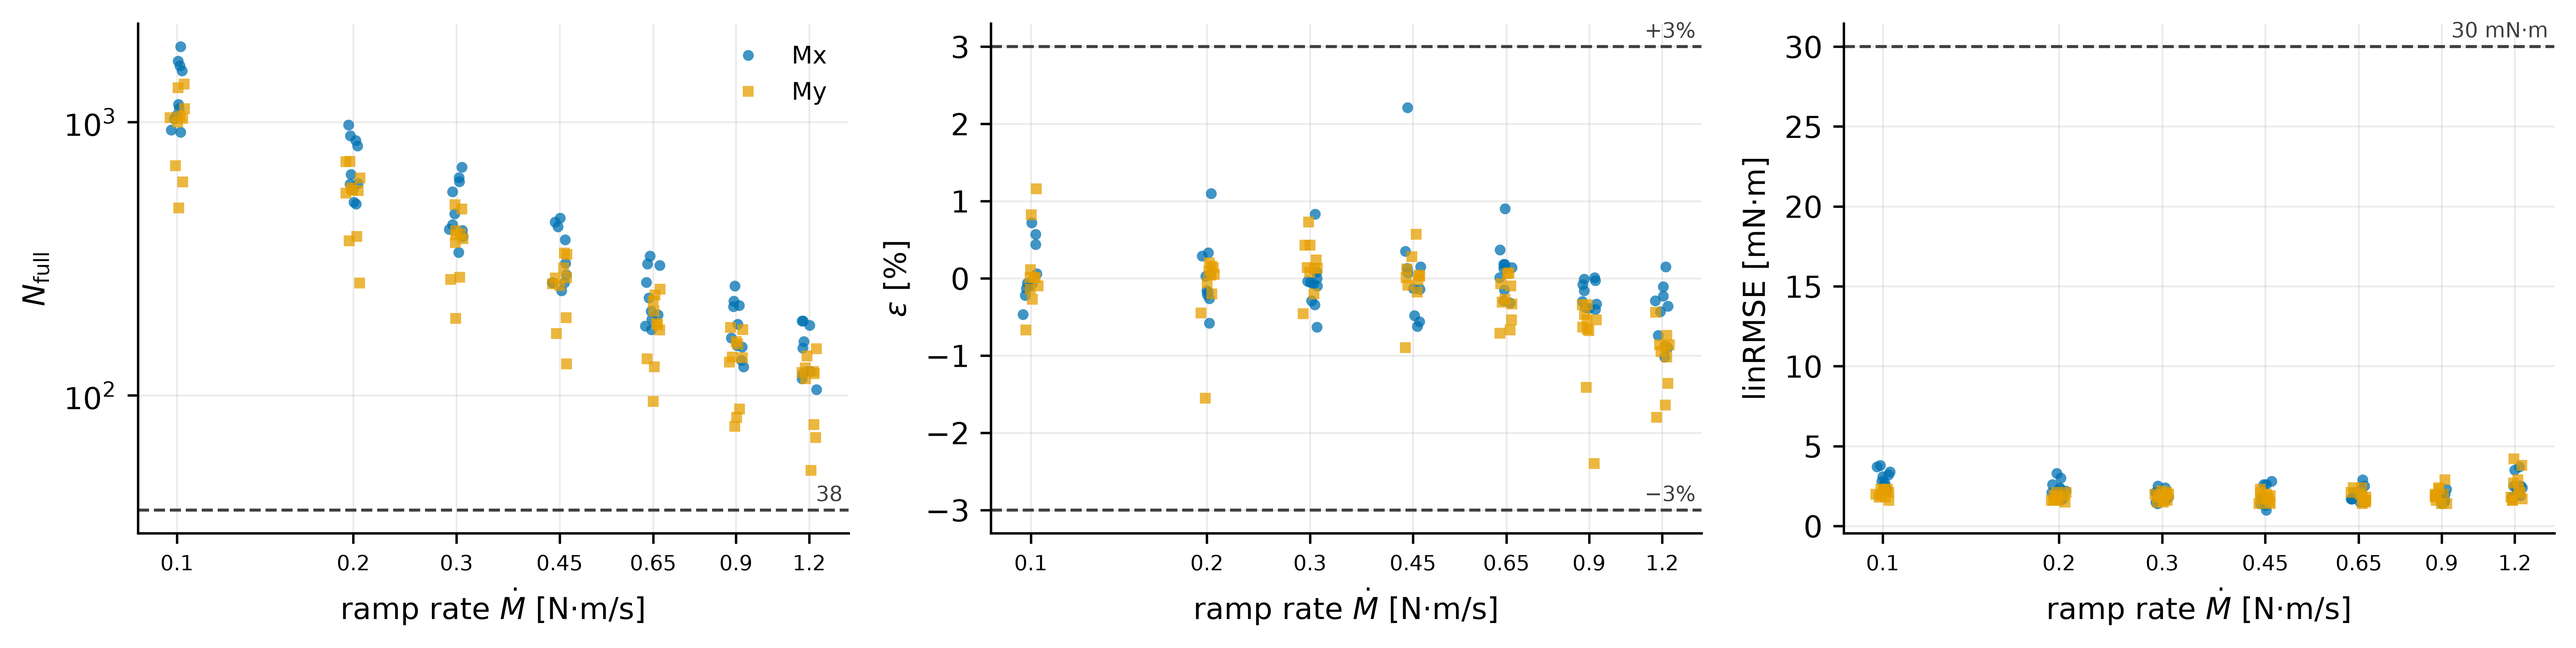
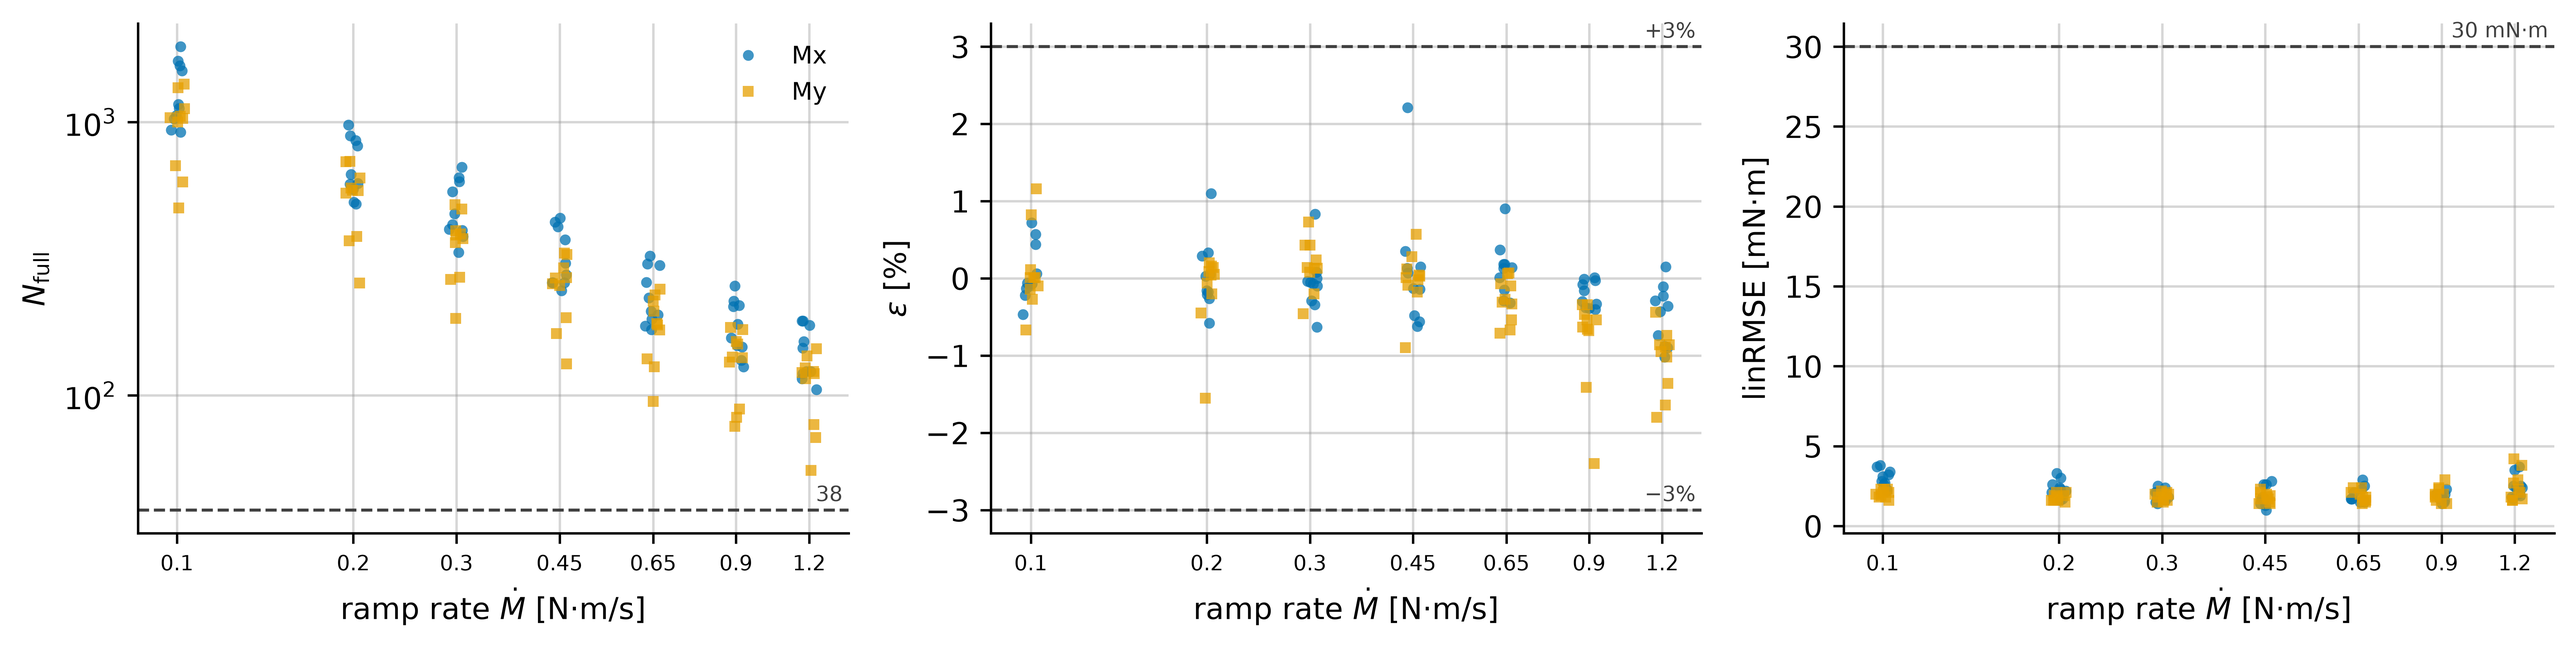
Strengthen the gate-report grid to match the other figures

diff --git a/analysis/gate_report.py b/analysis/gate_report.py
@@ -139,7 +139,7 @@ for ax, (col, ylab, gates, scale) in zip(axes, panels):
     ax.minorticks_off()
     ax.set_xlabel(r'ramp rate $\dot M$ [N$\cdot$m/s]')
     ax.set_ylabel(ylab)
-    ax.grid(alpha=0.25, lw=0.6)
+    ax.grid(alpha=0.4, lw=0.8, color='0.6')
     ax.set_axisbelow(True)
     for sp in ('top', 'right'):
         ax.spines[sp].set_visible(False)
